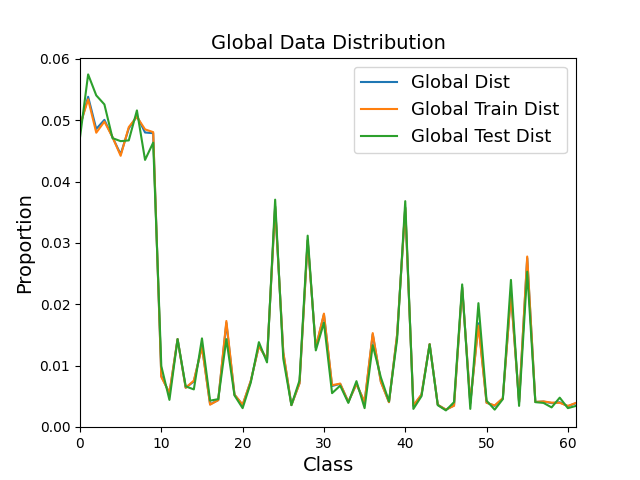
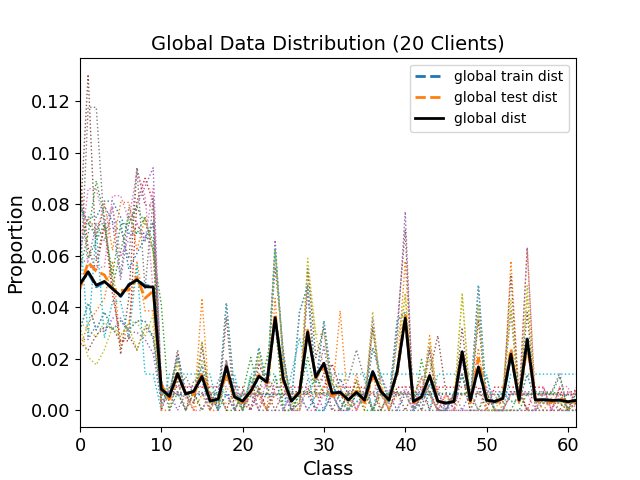
add clients dist

diff --git a/main.py b/main.py
@@ -81,7 +81,8 @@ def main():
           file=log_fp, flush=True)
 
     # Measure the global data distribution
-    _ = get_clients_dist(clients, display=True, metrics_dir=args.metrics_dir)
+    _, _, global_test_dist = get_clients_dist(
+        clients, max_num_clients=20, display=True, metrics_dir=args.metrics_dir)
 
     # Create middle servers
     middle_servers = setup_middle_servers(
@@ -199,10 +200,11 @@ def get_clients_info(clients):
     return ids, groups, num_samples
 
 
-def get_clients_dist(clients, display=False, metrics_dir=None):
+def get_clients_dist(clients, max_num_clients=20, display=False, metrics_dir=None):
     """Return the global data distribution of all clients.
     Args:
         clients: List of Client objects.
+        max_num_clients: Maximum number of clients to plot.
         display: Visualize data distribution when set to True.
         metrics_dir: Path to save the figure.
     Returns:
@@ -219,24 +221,46 @@ def get_clients_dist(clients, display=False, metrics_dir=None):
         try:
             import matplotlib.pyplot as plt
             from metrics.visualization_utils import (
-                title_fontsize, legend_fontsize, label_fontsize)
+                title_fontsize, legend_fontsize,
+                label_fontsize, tick_fontsize)
 
             plt.figure()
-            plt.title("Global Data Distribution", fontsize=title_fontsize)
+            plt.title("Global Data Distribution (%s Clients)" % max_num_clients,
+                      fontsize=title_fontsize)
             plt.xlabel("Class", fontsize=label_fontsize)
             plt.ylabel("Proportion", fontsize=label_fontsize)
+            plt.tick_params(labelsize=tick_fontsize)
             plt.xlim((0, 61))
 
             num_classes = len(global_dist)
             class_list = range(num_classes)
 
-            plt.plot(class_list, global_dist / global_dist.sum())
-            plt.plot(class_list, global_train_dist / global_train_dist.sum())
-            plt.plot(class_list, global_test_dist / global_test_dist.sum())
+            np.random.seed(0)
+            rand_clients = np.random.choice(clients, max_num_clients)
+
+            c_ids = []
+            for c in rand_clients:
+                c_ids.append(c.id)
+                c_train_dist_ = c.train_sample_dist
+                c_train_dist_ = c_train_dist_ / c_train_dist_.sum()
+                plt.plot(class_list,
+                         c_train_dist_,
+                         linestyle=":", linewidth=1)
+
+            p1, = plt.plot(class_list,
+                           global_train_dist / global_train_dist.sum(),
+                           linestyle="--", linewidth=2)
+            p2, = plt.plot(class_list,
+                           global_test_dist / global_test_dist.sum(),
+                           linestyle="--", linewidth=2)
+            p3, = plt.plot(class_list,
+                           global_dist / global_dist.sum(),
+                           linestyle="-", linewidth=2, c="k")
 
             plt.legend(
-                ["Global Dist", "Global Train Dist", "Global Test Dist"],
-                fontsize=legend_fontsize)
+                (p1, p2, p3),
+                ("global train dist", "global test dist", "global dist"),
+                fontsize=10)
             plt.savefig(os.path.join(metrics_dir, "dist.png"))
 
         except ModuleNotFoundError:
